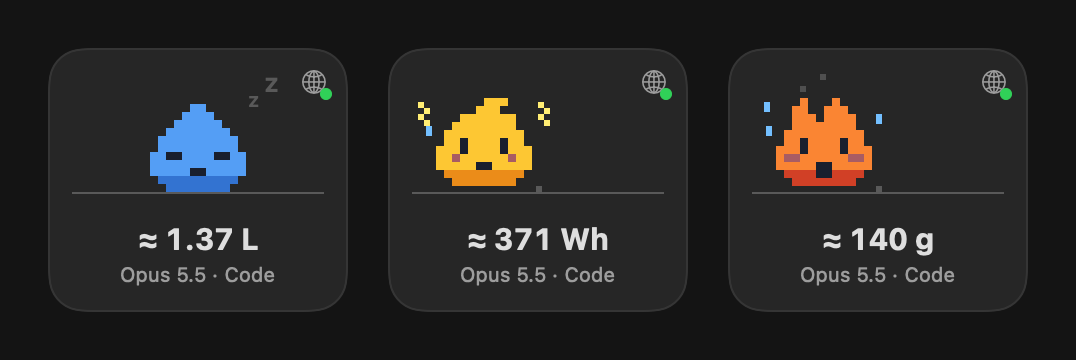
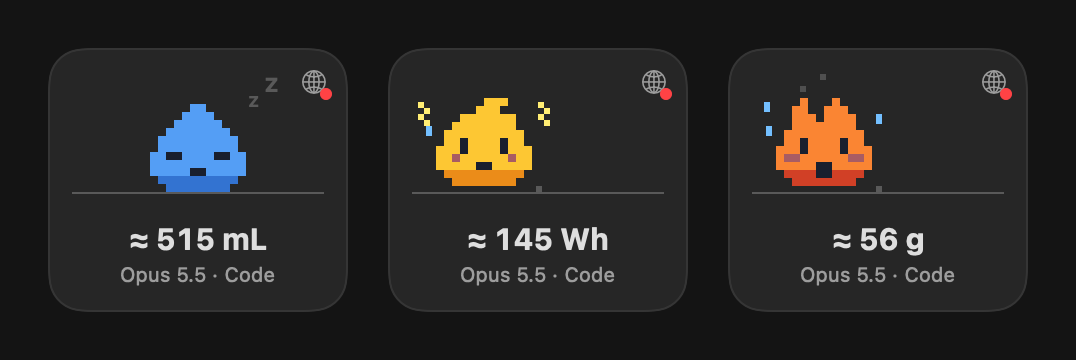
README: centered header with badges, introduction, a desktop screenshot with the menu (#2)
The new images come from --shots (docs/desktop.png, docs/icon.png); the app itself is unchanged.

diff --git a/Sources/main.swift b/Sources/main.swift
@@ -718,6 +718,79 @@ if let i = args.firstIndex(of: "--shots"), i + 1 < args.count {   // render the 
     store.roasting = true
     shot("roast") { card(.water, 2) }
     store.roasting = false
+
+    // The README's top: Tracky's drop as an icon, and a made-up desktop with the card and the open menu.
+    func sprite(_ rows: [String], px: CGFloat, ink: Color? = nil) -> some View {
+        let p = Palette(scheme: .light)
+        return Canvas { ctx, _ in draw(rows, in: ctx, at: .zero, px: px, ink: ink ?? p.body, p) }
+            .frame(width: 12 * px, height: CGFloat(rows.count) * px)
+    }
+    func save(_ name: String, _ view: some View) {
+        let png = MainActor.assumeIsolated { () -> Data? in
+            let r = ImageRenderer(content: view)
+            r.scale = 2
+            return r.nsImage?.tiffRepresentation.flatMap { NSBitmapImageRep(data: $0)?.representation(using: .png, properties: [:]) }
+        }
+        try? png?.write(to: dir.appendingPathComponent(name + ".png"))
+    }
+    save("icon", sprite(Sprites.awake(.water), px: 8))
+
+    let m = Metric.water, font = Font.system(size: 13)
+    store.browserOn = true   // the globe and the menu both show browser tracking on
+    func menuRow(_ left: String, _ right: String = "", bold: Bool = false, check: Bool = false, sub: Bool = false, dim: Bool = false) -> some View {
+        HStack(spacing: 0) {
+            Text(check ? "✓" : "").frame(width: 18, alignment: .leading)
+            Text(left).fontWeight(bold ? .semibold : .regular).foregroundStyle(dim ? .secondary : .primary)
+            Spacer(minLength: 24)
+            Text(sub ? "›" : right).fontWeight(bold ? .semibold : .regular).monospacedDigit()
+        }.font(font).padding(.horizontal, 10).frame(height: 22)
+    }
+    func divider() -> some View { Divider().padding(.horizontal, 10).padding(.vertical, 4) }
+    let menu = VStack(alignment: .leading, spacing: 0) {
+        menuRow("\(m.name) · last \(Int(store.hours))h", "≈ " + m.fmt(m.of(store.impact).mid), bold: true)
+        menuRow(others(m, store.impact), dim: true)
+        divider()
+        ForEach(Array(slices(store, m).enumerated()), id: \.offset) { menuRow($1.label, m.fmt($1.amount)) }
+        divider()
+        menuRow("💡 " + tips(store, m)[0])
+        divider()
+        menuRow("🌐  Browser tracking: on")
+        divider()
+        menuRow("Track", sub: true); menuRow("Period", sub: true)
+        menuRow("Show on desktop", check: true); menuRow("Minimal card"); menuRow("Open at login", check: true)
+        menuRow("How is this estimated?"); menuRow("Quit Tracky", "⌘Q")
+    }
+    .padding(.vertical, 5).frame(width: 330)
+    .background(RoundedRectangle(cornerRadius: 10).fill(Color(white: 0.97, opacity: 0.94)))
+    .overlay(RoundedRectangle(cornerRadius: 10).stroke(Color.black.opacity(0.12), lineWidth: 0.5))
+    .shadow(color: .black.opacity(0.25), radius: 18, y: 8)
+
+    let menuBar = HStack(spacing: 18) {
+        Image(systemName: "apple.logo").font(.system(size: 15))
+        Text("Finder").fontWeight(.bold)
+        ForEach(["File", "Edit", "View", "Go", "Window", "Help"], id: \.self) { Text($0) }
+        Spacer()
+        HStack(spacing: 5) {
+            sprite(Sprites.awake(m).map { String($0.map { "#%b".contains($0) ? "#" : " " }) }, px: 1.4, ink: .black)
+            Text("≈ " + m.fmt(m.of(store.impact).mid)).monospacedDigit()
+        }
+        .padding(.horizontal, 7).frame(height: 22).background(RoundedRectangle(cornerRadius: 5).fill(Color.black.opacity(0.1)))
+        Image(systemName: "wifi"); Image(systemName: "battery.75percent")
+        Text("Fri 31 Oct  10:41")
+    }
+    .font(.system(size: 13)).padding(.horizontal, 16).frame(height: 30).background(Color.white.opacity(0.55))
+
+    let desktop = ZStack(alignment: .topLeading) {
+        LinearGradient(colors: [Color(red: 0.36, green: 0.62, blue: 0.93), Color(red: 0.55, green: 0.78, blue: 0.86),
+                                Color(red: 0.95, green: 0.78, blue: 0.62)], startPoint: .topLeading, endPoint: .bottomTrailing)
+        Circle().fill(Color.white.opacity(0.18)).frame(width: 520).blur(radius: 60).offset(x: -120, y: 260)
+        Circle().fill(Color(red: 0.2, green: 0.4, blue: 0.85).opacity(0.25)).frame(width: 600).blur(radius: 80).offset(x: 760, y: 220)
+        card(.water, 2).shadow(color: .black.opacity(0.25), radius: 20, y: 10).offset(x: 110, y: 110)
+        menu.offset(x: 1200 - 330 - 150, y: 34)
+        menuBar
+    }
+    .frame(width: 1200, height: 540).clipped().environment(\.colorScheme, .light)
+    save("desktop", desktop)
     exit(0)
 }
 

diff --git a/README.md b/README.md
@@ -1,13 +1,28 @@
-# Tracky
+<p align="center">
+  <img src="docs/icon.png" width="88" alt="Tracky, a pixel water drop">
+</p>
+
+<h1 align="center">Tracky</h1>
+
+<p align="center">A pixel companion for your Mac that shows the water, energy and CO₂ behind your AI use.</p>
+
+<p align="center">
+  <a href="https://github.com/andreagemelli/tracky/actions/workflows/ci.yml"><img src="https://github.com/andreagemelli/tracky/actions/workflows/ci.yml/badge.svg" alt="CI"></a>
+  <a href="https://github.com/andreagemelli/tracky/releases/latest"><img src="https://img.shields.io/github/v/release/andreagemelli/tracky" alt="Latest release"></a>
+  <img src="https://img.shields.io/badge/macOS-14%2B-lightgrey?logo=apple" alt="macOS 14+">
+  <a href="LICENSE"><img src="https://img.shields.io/badge/license-PolyForm%20Noncommercial-blue" alt="License: PolyForm Noncommercial"></a>
+</p>
+
+## Introduction
+
+Tracky lives in your menu bar and on your desktop, and shows what your AI use costs while you use it: **water, energy and CO₂**. It reads the logs AI tools already keep on your Mac, turns each reply into an estimate, and heats up as the total grows. Along the way it nudges you toward lighter choices: a smaller or local model, lower effort, or no AI at all when a search would do. Nothing leaves your Mac.
+
+Estimates use the open [EcoLogits](https://ecologits.ai) method by GenAI Impact, ported to Swift and checked against the Python library.
+
+![Tracky's card on the desktop and its menu in the menu bar](docs/desktop.png)
 
 > [!NOTE]
 > **Work in progress.** Tracky is young, and some measurements may still be imprecise: closed models don't publish their sizes, browser token counts are estimated from reply length, and local power uses one Mac's measurement. Treat the numbers as informed estimates. Contributions are more than welcome: issues, fixes, new sources, better data. See [What's been tested](#whats-been-tested) for where things stand.
-
-A small pixel companion for your Mac that shows what your AI use costs while you use it: **water, energy and CO₂**. Tracky reads the logs AI tools already keep on your Mac, turns each reply into an estimate, and heats up as the total grows. Nothing leaves your Mac.
-
-![Tracky tracking water as a drop, energy as a spark and CO₂ as a little fire](docs/hero.png)
-
-Estimates use the open [EcoLogits](https://ecologits.ai) method by GenAI Impact, ported to Swift and checked against the Python library.
 
 ## Quickstart
 
@@ -40,6 +55,9 @@ The dot turns green once the extension checks in. It then counts AI replies on c
 ## What you can do
 
 - **Pick a metric.** The button under the 🔥 flame switches water → energy → CO₂, and so does *Track* in the menu. Tracky becomes a drop, a spark or a little fire; the other two metrics show under the total.
+
+  ![Tracky tracking water as a drop, energy as a spark and CO₂ as a little fire](docs/hero.png)
+
 - **Watch it heat up.** A bar fills toward the next everyday amount, such as a cup, a phone charge or 1 km by car. Each one you pass makes Tracky hotter, until it's red.
 - **See where it comes from.** The legend splits the total by model and source, such as *Opus 5.5 · Code* or *GPT 5.2 · ChatGPT*, in at most five lines.
 - **Get nudges** in a speech bubble, based on what you've been doing: *do you really need AI for this?* after a burst of asks or a string of quick questions, a plain search instead of Google's AI answers, and always a smaller or local model when it's actually lighter.
